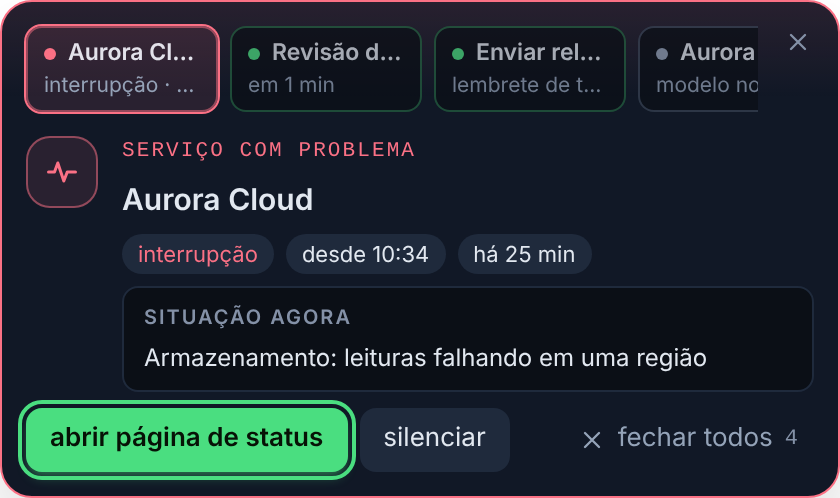
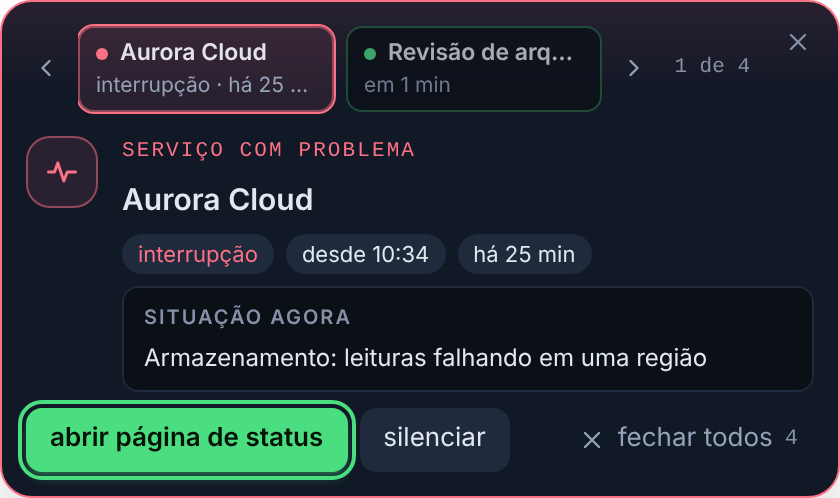
fix: carrossel de notificações navegável com setas, teclado e rolagem
Com muitos avisos a tira do pop-up cortava os últimos. Agora tem setas
anterior/próximo (circulares), contador, ← → no teclado, roda do mouse e
arrastar para rolar, e o aviso escolhido rola para a vista.

Claude-Session: https://claude.ai/code/session_01URLuMfQdJaCYET5dtpJzDK

diff --git a/src/components/AlertStrip.tsx b/src/components/AlertStrip.tsx
@@ -1,9 +1,11 @@
+import { useEffect, useRef, type KeyboardEvent, type MouseEvent, type PointerEvent, type WheelEvent } from "react";
 import type { AgendaItem } from "../lib/api";
 import { status as agendaStatus } from "../lib/agenda";
 import { kindOf, levelLabel, prLabel, senderName, toneOf, type Tone } from "../lib/alerts";
 import { timeAgo } from "../lib/time";
 import { t } from "../i18n";
 import Avatar from "./Avatar";
+import { ChevronIcon } from "./Icons";
 
 export const TONE: Record<Tone, { dot: string; text: string; card: string; ring: string; border: string }> = {
   danger: { dot: "bg-danger", text: "text-danger", card: "border-danger/50 bg-danger/10", ring: "ring-danger", border: "border-danger" },
@@ -34,32 +36,107 @@ export function summary(e: AgendaItem): string {
 
 type Props = { items: AgendaItem[]; selected: string; onSelect: (id: string) => void };
 
+const ARROW = "grid size-7 shrink-0 place-items-center rounded-md text-muted transition hover:bg-edge hover:text-fg disabled:opacity-30 disabled:hover:bg-transparent";
+
+/** Every pending alert as a carousel: arrows and ← → step through it, the wheel and a drag scroll it, the picked one stays in view. */
 export default function AlertStrip({ items, selected, onSelect }: Props) {
+  const row = useRef<HTMLDivElement>(null);
+  const drag = useRef<{ x: number; left: number; moved: boolean } | null>(null);
+  const index = Math.max(0, items.findIndex((e) => e.id === selected));
+
+  // The picked card scrolls into view, whether it came from an arrow, the keyboard or a new alert arriving.
+  useEffect(() => {
+    const card = row.current?.querySelector<HTMLElement>(`[data-id="${CSS.escape(selected)}"]`);
+    card?.scrollIntoView?.({ block: "nearest", inline: "nearest", behavior: "smooth" });
+  }, [selected]);
+
+  const step = (by: number, focus = false) => {
+    const next = items[(index + by + items.length) % items.length];
+    if (!next) return;
+    onSelect(next.id);
+    if (focus) row.current?.querySelector<HTMLElement>(`[data-id="${CSS.escape(next.id)}"]`)?.focus();
+  };
+
+  const onKeyDown = (e: KeyboardEvent<HTMLDivElement>) => {
+    if (e.key !== "ArrowLeft" && e.key !== "ArrowRight") return;
+    e.preventDefault();
+    step(e.key === "ArrowLeft" ? -1 : 1, true);
+  };
+
+  // A mouse wheel only scrolls vertically; turn it sideways so the row moves under the pointer.
+  const onWheel = (e: WheelEvent<HTMLDivElement>) => {
+    if (row.current && Math.abs(e.deltaY) > Math.abs(e.deltaX)) row.current.scrollLeft += e.deltaY;
+  };
+
+  // Dragging with the mouse scrolls like a touch swipe; a drag that moved doesn't count as picking the card under it.
+  const onPointerDown = (e: PointerEvent<HTMLDivElement>) => {
+    if (e.pointerType !== "mouse" || !row.current) return;
+    drag.current = { x: e.clientX, left: row.current.scrollLeft, moved: false };
+  };
+  const onPointerMove = (e: PointerEvent<HTMLDivElement>) => {
+    const d = drag.current;
+    if (!d || !row.current) return;
+    const dx = e.clientX - d.x;
+    if (Math.abs(dx) > 4) d.moved = true;
+    if (d.moved) row.current.scrollLeft = d.left - dx;
+  };
+  const onClickCapture = (e: MouseEvent<HTMLDivElement>) => {
+    if (drag.current?.moved) {
+      e.stopPropagation();
+      e.preventDefault();
+    }
+    drag.current = null;
+  };
+
   return (
-    <div role="group" aria-label={t("alert.strip")} data-alert-strip className="-mx-1 -mt-1 mr-7 flex gap-1.5 overflow-x-auto p-1 [scrollbar-width:none]">
-      {items.map((e) => {
-        const tone = TONE[toneOf(e)];
-        const on = e.id === selected;
-        return (
-          <button
-            key={e.id}
-            type="button"
-            aria-pressed={on}
-            onClick={() => onSelect(e.id)}
-            className={`min-w-24 max-w-40 flex-1 rounded-lg border px-2 py-1 text-left transition ${tone.card} ${on ? `ring-1 ${tone.ring} ${tone.border}` : "opacity-70 hover:opacity-100"}`}
-          >
-            <span className="flex items-center gap-1.5">
-              {e.sender ? (
-                <Avatar name={senderName(e)} email={e.sender.login} photo={e.sender.avatar} />
-              ) : (
-                <span aria-hidden="true" className={`size-1.5 shrink-0 rounded-full ${tone.dot}`} />
-              )}
-              <span className="truncate text-[11.5px] font-semibold text-fg">{e.title}</span>
-            </span>
-            <span className="block truncate text-[10.5px] text-muted">{summary(e)}</span>
-          </button>
-        );
-      })}
+    <div data-alert-strip className="-mx-1 -mt-1 mr-7 flex min-w-0 items-center gap-0.5">
+      <button type="button" onClick={() => step(-1)} aria-label={t("alert.prev")} className={ARROW}>
+        <ChevronIcon dir="left" />
+      </button>
+      <div
+        ref={row}
+        role="group"
+        aria-label={t("alert.strip")}
+        onKeyDown={onKeyDown}
+        onWheel={onWheel}
+        onPointerDown={onPointerDown}
+        onPointerMove={onPointerMove}
+        onPointerUp={() => drag.current && !drag.current.moved && (drag.current = null)}
+        onPointerLeave={() => drag.current && !drag.current.moved && (drag.current = null)}
+        onClickCapture={onClickCapture}
+        className="flex min-w-0 flex-1 snap-x gap-1.5 overflow-x-auto scroll-smooth p-1 [scrollbar-width:none] [&::-webkit-scrollbar]:hidden"
+      >
+        {items.map((e) => {
+          const tone = TONE[toneOf(e)];
+          const on = e.id === selected;
+          return (
+            <button
+              key={e.id}
+              data-id={e.id}
+              type="button"
+              aria-pressed={on}
+              onClick={() => onSelect(e.id)}
+              className={`w-32 shrink-0 snap-start rounded-lg border px-2 py-1 text-left transition ${tone.card} ${on ? `ring-1 ${tone.ring} ${tone.border}` : "opacity-70 hover:opacity-100"}`}
+            >
+              <span className="flex items-center gap-1.5">
+                {e.sender ? (
+                  <Avatar name={senderName(e)} email={e.sender.login} photo={e.sender.avatar} />
+                ) : (
+                  <span aria-hidden="true" className={`size-1.5 shrink-0 rounded-full ${tone.dot}`} />
+                )}
+                <span className="truncate text-[11.5px] font-semibold text-fg">{e.title}</span>
+              </span>
+              <span className="block truncate text-[10.5px] text-muted">{summary(e)}</span>
+            </button>
+          );
+        })}
+      </div>
+      <button type="button" onClick={() => step(1)} aria-label={t("alert.next")} className={ARROW}>
+        <ChevronIcon dir="right" />
+      </button>
+      <span aria-live="polite" className="shrink-0 px-1 font-mono text-[10.5px] tabular-nums text-faint">
+        {t("alert.position", { n: index + 1, total: items.length })}
+      </span>
     </div>
   );
 }

diff --git a/src/components/AlertKinds.test.tsx b/src/components/AlertKinds.test.tsx
@@ -353,3 +353,30 @@ test("the day summary lists what is waiting, has no action but closing and says 
   expect(screen.getByRole("button", { name: "fechar" })).toBeTruthy();
   expect(screen.queryByText(/adiar/)).toBeNull();
 });
+
+test("the strip is a carousel: arrows and ← → step through every alert and wrap around", async () => {
+  await show([outage, meeting, model]);
+  const picked = () => cards().findIndex((c) => c.getAttribute("aria-pressed") === "true");
+  expect(picked()).toBe(0);
+  expect(screen.getByText("1 de 3")).toBeTruthy();
+
+  await act(async () => {
+    fireEvent.click(screen.getByLabelText("próximo aviso"));
+  });
+  expect(picked()).toBe(1);
+  expect(screen.getByText("2 de 3")).toBeTruthy();
+
+  await act(async () => {
+    fireEvent.click(screen.getByLabelText("aviso anterior"));
+  });
+  await act(async () => {
+    fireEvent.click(screen.getByLabelText("aviso anterior"));
+  });
+  expect(picked(), "going back from the first lands on the last").toBe(2);
+
+  await act(async () => {
+    fireEvent.keyDown(cards()[2], { key: "ArrowRight" });
+  });
+  expect(picked()).toBe(0);
+  expect(document.activeElement === cards()[0], "the keyboard moves focus along with the pick").toBe(true);
+});

diff --git a/src/i18n/es/tasks.ts b/src/i18n/es/tasks.ts
@@ -150,6 +150,9 @@ export const tasks: Record<keyof typeof source, string> = {
   "notif.closeFailed": "No se pudo cerrar el aviso. {error}",
   "alert.close": "cerrar",
   "alert.closeAll": "cerrar todos",
+  "alert.prev": "aviso anterior",
+  "alert.next": "siguiente aviso",
+  "alert.position": "{n} de {total}",
   "alert.digestSummary": "resumen del día",
   "alert.modelNew": "modelo nuevo",
   "alert.silence": "silenciar",

diff --git a/src/i18n/en/tasks.ts b/src/i18n/en/tasks.ts
@@ -150,6 +150,9 @@ export const tasks: Record<keyof typeof source, string> = {
   "notif.closeFailed": "Could not close the alert. {error}",
   "alert.close": "close",
   "alert.closeAll": "close all",
+  "alert.prev": "previous alert",
+  "alert.next": "next alert",
+  "alert.position": "{n} of {total}",
   "alert.digestSummary": "day summary",
   "alert.modelNew": "new model",
   "alert.silence": "mute",

diff --git a/src/i18n/pt-BR/tasks.ts b/src/i18n/pt-BR/tasks.ts
@@ -148,6 +148,9 @@ export const tasks = {
   "notif.closeFailed": "Não foi possível fechar o aviso. {error}",
   "alert.close": "fechar",
   "alert.closeAll": "fechar todos",
+  "alert.prev": "aviso anterior",
+  "alert.next": "próximo aviso",
+  "alert.position": "{n} de {total}",
   "alert.digestSummary": "resumo do dia",
   "alert.modelNew": "modelo novo",
   "alert.silence": "silenciar",

diff --git a/CHANGELOG.md b/CHANGELOG.md
@@ -128,6 +128,9 @@ versões em [SemVer](https://semver.org/lang/pt-BR/).
 
 ### Corrigido
 
+- **Carrossel de notificações navegável**: com muitos avisos, a tira do topo do pop-up cortava os últimos sem
+  jeito de chegar a eles. Agora tem setas ‹ ›, contador ("2 de 5"), ← → no teclado, rolagem com a roda do mouse
+  e arrastando, e o aviso escolhido sempre rola para a vista.
 - **Atualizar o Canto não apaga mais as suas escolhas.** Antes só as abas visíveis e o layout tinham cópia no
   arquivo `preferencias.json`; agora **todas** as preferências da interface vão para lá (tema, densidade, idioma,
   modo mini, vista da agenda e das notas, lembretes, grupos de Ajustes...). E quando o webview volta da atualização
